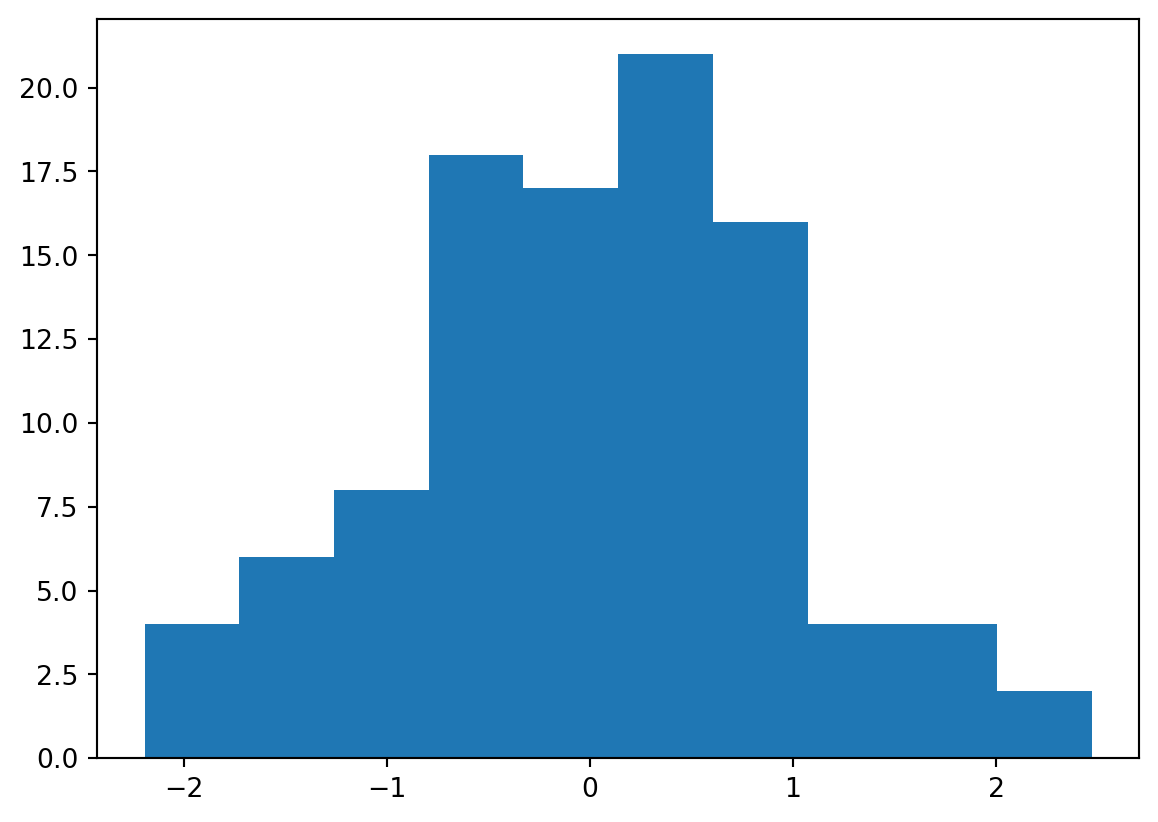
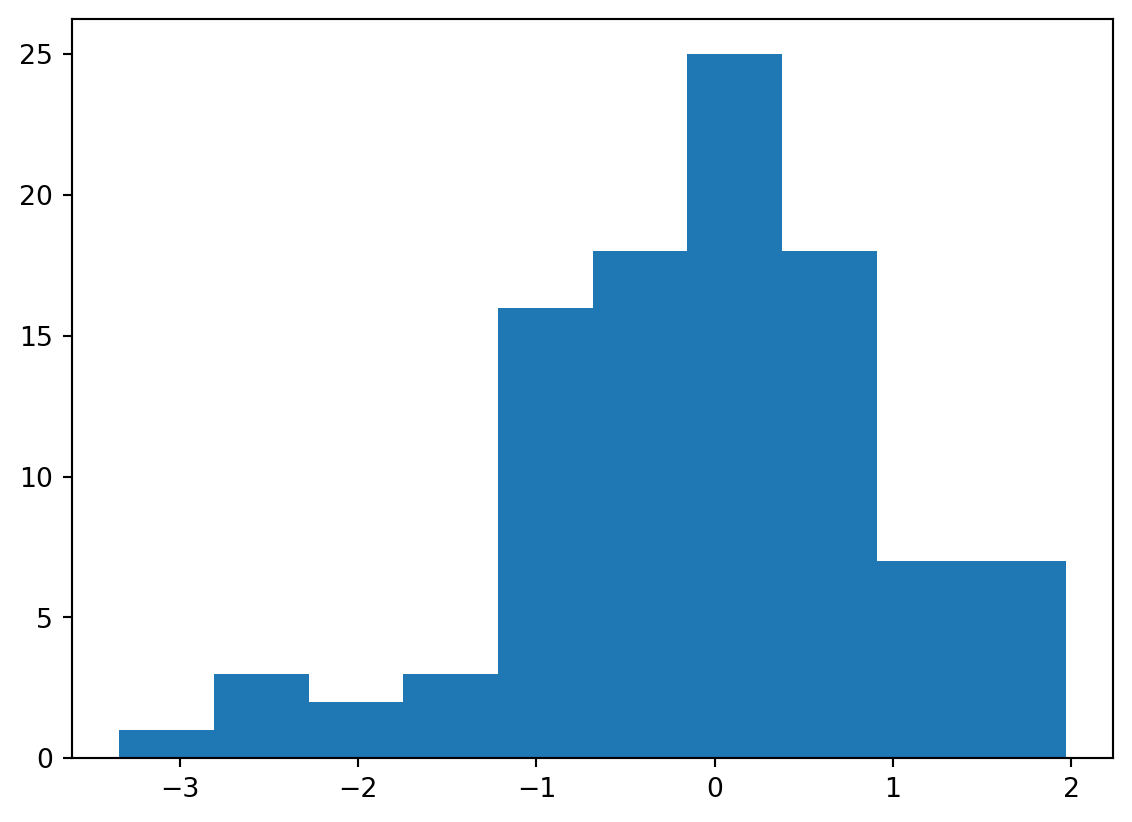
Built site for gh-pages

diff --git a/syllabus.html b/syllabus.html
@@ -293,7 +293,7 @@ gtag('config', 'G-B8G2041HSB', { 'anonymize_ip': true});
 <ul>
 <li><strong>Primary Instructor</strong> <a href="http://www.stat.berkeley.edu/~wfithian/">Prof.&nbsp;Will Fithian</a>
 <ul>
-<li><strong>Office Hours:</strong> Tuesday 3:30-4:30pm <a href="https://berkeley.zoom.us/j/96319412431?pwd=2OYujkSXdsNuTD1QQ25UGV1bL4CJI0.1">on Zoom</a>, Thursday 9:30-10:30am in Evans 301</li>
+<li><strong>Office Hours:</strong> Tuesday 3:30-4:30pm <a href="https://berkeley.zoom.us/j/96319412431?pwd=2OYujkSXdsNuTD1QQ25UGV1bL4CJI0.1">on Zoom</a>, Thursday 9:30-10:30am in 301 Evans</li>
 <li><strong>Email:</strong> <a href="mailto:wfithian@berkeley.edu">wfithian@berkeley.edu</a></li>
 </ul></li>
 <li><strong>GSI</strong> <a href="https://statistics.berkeley.edu/people/dohyeong-ki">Dohyeong Ki</a>
@@ -307,7 +307,7 @@ gtag('config', 'G-B8G2041HSB', { 'anonymize_ip': true});
 <h3 class="anchored" data-anchor-id="course-schedule">Course schedule</h3>
 <ul>
 <li><strong>Lectures:</strong> Tuesday and Thursday 11am-12:30pm, Evans 60</li>
-<li><strong>Recitation sections:</strong> Every second F 3:30-4:30pm (location TBD), starting September 6</li>
+<li><strong>Recitation sections:</strong> Every second F 3:30-4:30pm in 444 Evans, starting September 6</li>
 <li><strong>Election week:</strong>
 <ul>
 <li>Blanket 2-day extension on homework 9 (due Friday November 8, 11:59pm)</li>

diff --git a/units/unit1.html b/units/unit1.html
@@ -331,10 +331,10 @@ $$
 <span id="cb1-6"><a href="#cb1-6" aria-hidden="true" tabindex="-1"></a>np.mean(x)</span></code><button title="Copy to Clipboard" class="code-copy-button"><i class="bi"></i></button></pre></div>
 </details>
 <div class="cell-output cell-output-display">
-<p><img src="unit1_files/figure-html/cell-2-output-1.png" width="579" height="411"></p>
+<p><img src="unit1_files/figure-html/cell-2-output-1.png" width="566" height="411"></p>
 </div>
 <div class="cell-output cell-output-display" data-execution_count="1">
-<pre><code>0.0027309939846907366</code></pre>
+<pre><code>-0.06895854651450223</code></pre>
 </div>
 </div>
 </section>

diff --git a/units/unit3.html b/units/unit3.html
@@ -328,10 +328,10 @@ $$
 <span id="cb1-6"><a href="#cb1-6" aria-hidden="true" tabindex="-1"></a>np.mean(x)</span></code><button title="Copy to Clipboard" class="code-copy-button"><i class="bi"></i></button></pre></div>
 </details>
 <div class="cell-output cell-output-display">
-<p><img src="unit3_files/figure-html/cell-2-output-1.png" width="579" height="411"></p>
+<p><img src="unit3_files/figure-html/cell-2-output-1.png" width="566" height="411"></p>
 </div>
 <div class="cell-output cell-output-display" data-execution_count="1">
-<pre><code>-0.0920732719218701</code></pre>
+<pre><code>-0.06577720592772328</code></pre>
 </div>
 </div>
 </section>
